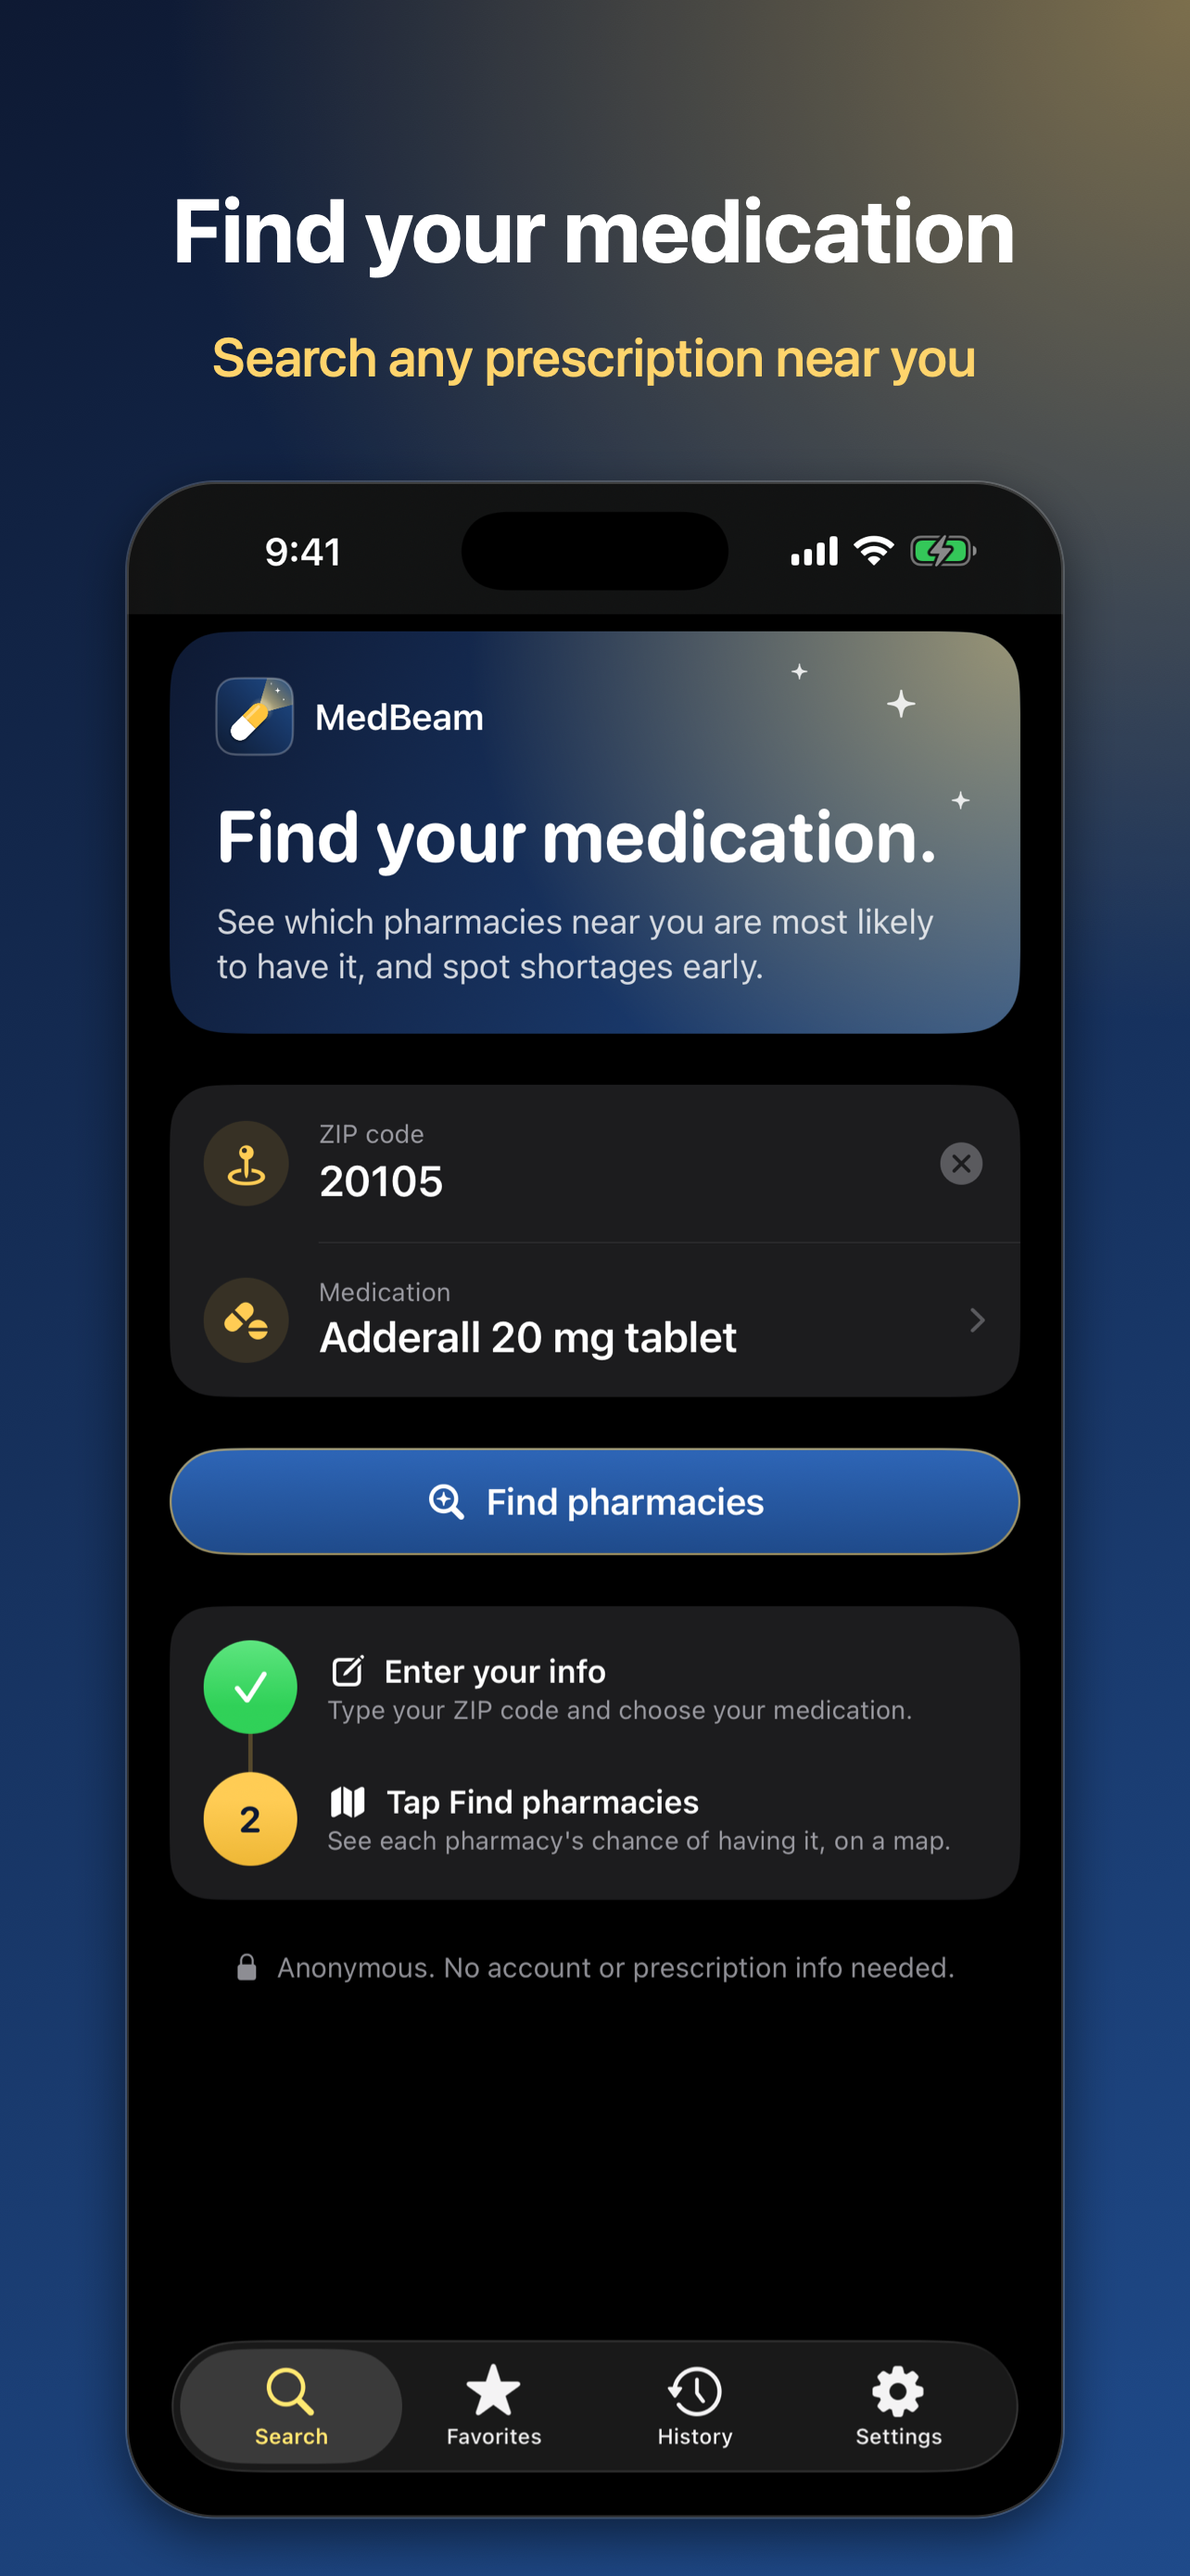
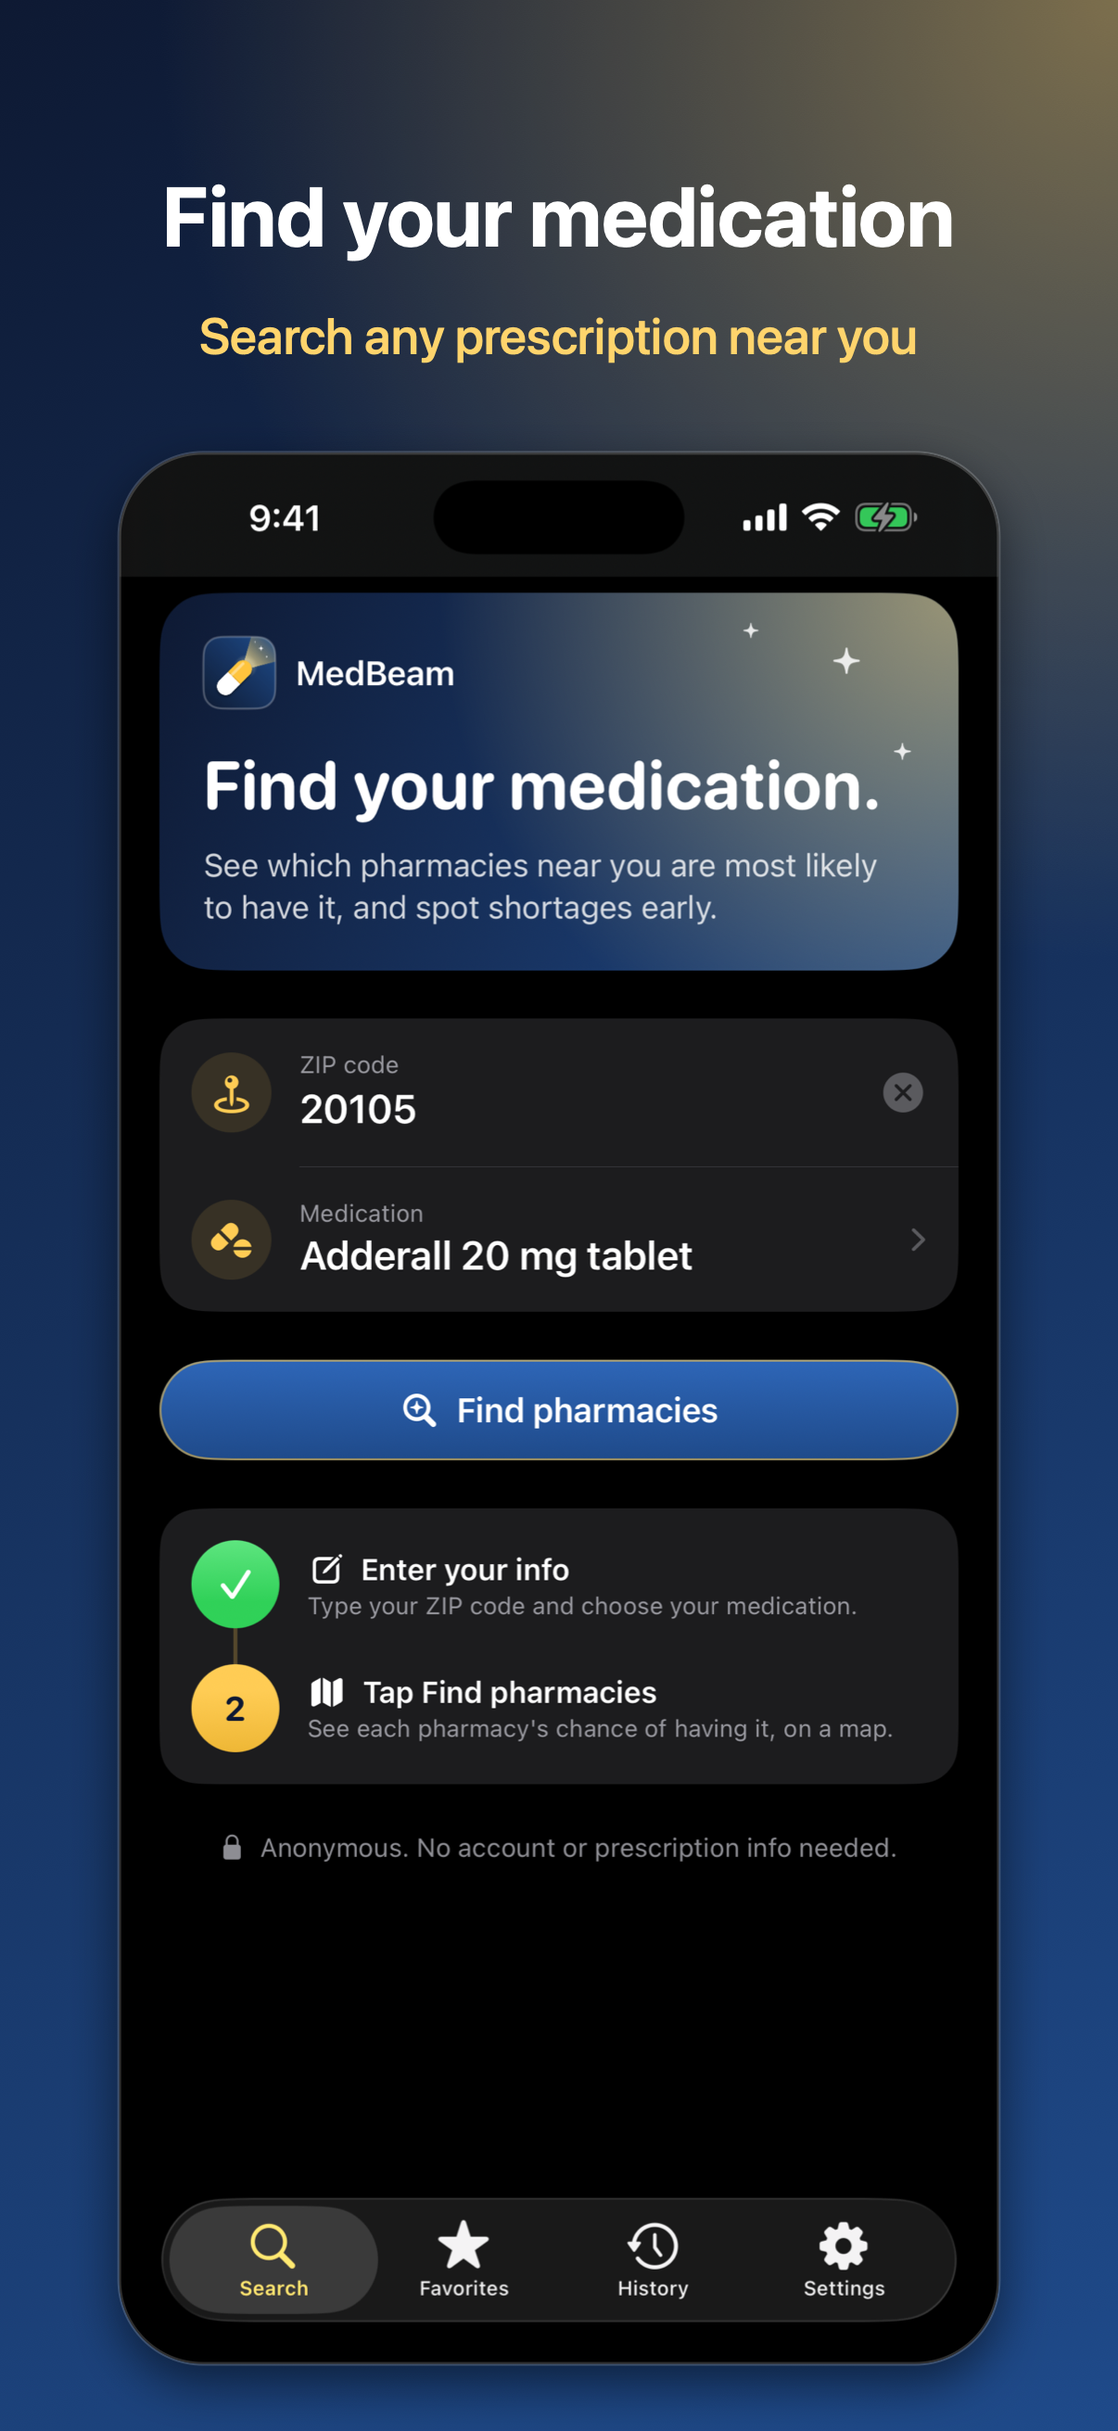
Screenshots at 1206x2622 for the Dynamic Island slot

diff --git a/design/ScreenshotFramer.swift b/design/ScreenshotFramer.swift
@@ -1,9 +1,12 @@
-// Frames raw simulator screenshots for the App Store (iPhone 6.5": 1284 x 2778).
-// Run:  swift design/ScreenshotFramer.swift design/raw design/appstore
+// Frames raw simulator screenshots for the App Store.
+// Run:  swift design/ScreenshotFramer.swift design/raw design/appstore [width height]
+// App Store Connect's "iPhone with Dynamic Island (medium display)" slot takes 1206 x 2622.
 import AppKit
 
-let W: CGFloat = 1284, H: CGFloat = 2778
 let args = CommandLine.arguments
+let W: CGFloat = args.count > 4 ? CGFloat(Double(args[3])!) : 1206
+let H: CGFloat = args.count > 4 ? CGFloat(Double(args[4])!) : 2622
+let scale = W / 1284
 let inDir = args.count > 1 ? args[1] : "design/raw", outDir = args.count > 2 ? args[2] : "design/appstore"
 try? FileManager.default.createDirectory(atPath: outDir, withIntermediateDirectories: true)
 
@@ -27,24 +30,24 @@ for (name, text) in captions.sorted(by: { $0.key < $1.key }) {
     let bg = CGGradient(colorsSpace: space, colors: [color(0.055, 0.10, 0.20), color(0.12, 0.29, 0.54)] as CFArray, locations: nil)!
     ctx.drawLinearGradient(bg, start: CGPoint(x: 0, y: H), end: CGPoint(x: W, y: 0), options: [])
     let glow = CGGradient(colorsSpace: space, colors: [color(1, 0.8, 0.35, 0.45), color(1, 0.8, 0.35, 0)] as CFArray, locations: nil)!
-    ctx.drawRadialGradient(glow, startCenter: CGPoint(x: W, y: H), startRadius: 0, endCenter: CGPoint(x: W, y: H), endRadius: 1100, options: [])
+    ctx.drawRadialGradient(glow, startCenter: CGPoint(x: W, y: H), startRadius: 0, endCenter: CGPoint(x: W, y: H), endRadius: 1100 * scale, options: [])
 
     // Headline + subtitle
     NSGraphicsContext.current = NSGraphicsContext(cgContext: ctx, flipped: false)
     let para = NSMutableParagraphStyle(); para.alignment = .center
-    let title = NSAttributedString(string: text.0, attributes: [.font: NSFont.systemFont(ofSize: 96, weight: .bold),
+    let title = NSAttributedString(string: text.0, attributes: [.font: NSFont.systemFont(ofSize: 96 * scale, weight: .bold),
                                                                  .foregroundColor: NSColor.white, .paragraphStyle: para])
-    let sub = NSAttributedString(string: text.1, attributes: [.font: NSFont.systemFont(ofSize: 58, weight: .medium),
+    let sub = NSAttributedString(string: text.1, attributes: [.font: NSFont.systemFont(ofSize: 58 * scale, weight: .medium),
                                                                .foregroundColor: NSColor(calibratedRed: 1, green: 0.8, blue: 0.35, alpha: 1), .paragraphStyle: para])
-    title.draw(in: CGRect(x: 60, y: H - 330, width: W - 120, height: 140))
-    sub.draw(in: CGRect(x: 60, y: H - 430, width: W - 120, height: 80))
+    title.draw(in: CGRect(x: 60 * scale, y: H - 330 * scale, width: W - 120 * scale, height: 140 * scale))
+    sub.draw(in: CGRect(x: 60 * scale, y: H - 430 * scale, width: W - 120 * scale, height: 80 * scale))
 
     // Phone screenshot with rounded corners and a soft shadow
-    let shotW: CGFloat = 1010, shotH = shotW * CGFloat(shot.height) / CGFloat(shot.width)
-    let rect = CGRect(x: (W - shotW) / 2, y: H - 520 - shotH, width: shotW, height: shotH)
-    let path = CGPath(roundedRect: rect, cornerWidth: 96, cornerHeight: 96, transform: nil)
+    let shotW: CGFloat = 1010 * scale, shotH = shotW * CGFloat(shot.height) / CGFloat(shot.width)
+    let rect = CGRect(x: (W - shotW) / 2, y: H - 520 * scale - shotH, width: shotW, height: shotH)
+    let path = CGPath(roundedRect: rect, cornerWidth: 96 * scale, cornerHeight: 96 * scale, transform: nil)
     ctx.saveGState()
-    ctx.setShadow(offset: CGSize(width: 0, height: -20), blur: 60, color: color(0, 0, 0, 0.55))
+    ctx.setShadow(offset: CGSize(width: 0, height: -20), blur: 60 * scale, color: color(0, 0, 0, 0.55))
     ctx.addPath(path); ctx.setFillColor(color(0, 0, 0)); ctx.fillPath()
     ctx.restoreGState()
     ctx.saveGState(); ctx.addPath(path); ctx.clip(); ctx.draw(shot, in: rect); ctx.restoreGState()

diff --git a/docs/app-store-listing.md b/docs/app-store-listing.md
@@ -42,7 +42,7 @@ pharmacy,medication,shortage,prescription,in stock,refill,FDA,ADHD,antibiotic,in
 **Copyright:** 2026 Dushyanth Bandarupalli
 
 ## Screenshots
-Upload design/appstore/1-home.png through 5-favorites.png (iPhone 6.5" Display, 1284 x 2778), in order.
+Upload design/appstore/1-home.png through 5-favorites.png ("iPhone with Dynamic Island (medium display)" box, 1206 x 2622), in order.
 
 ## App Review Information
 - **Sign-in required:** No
